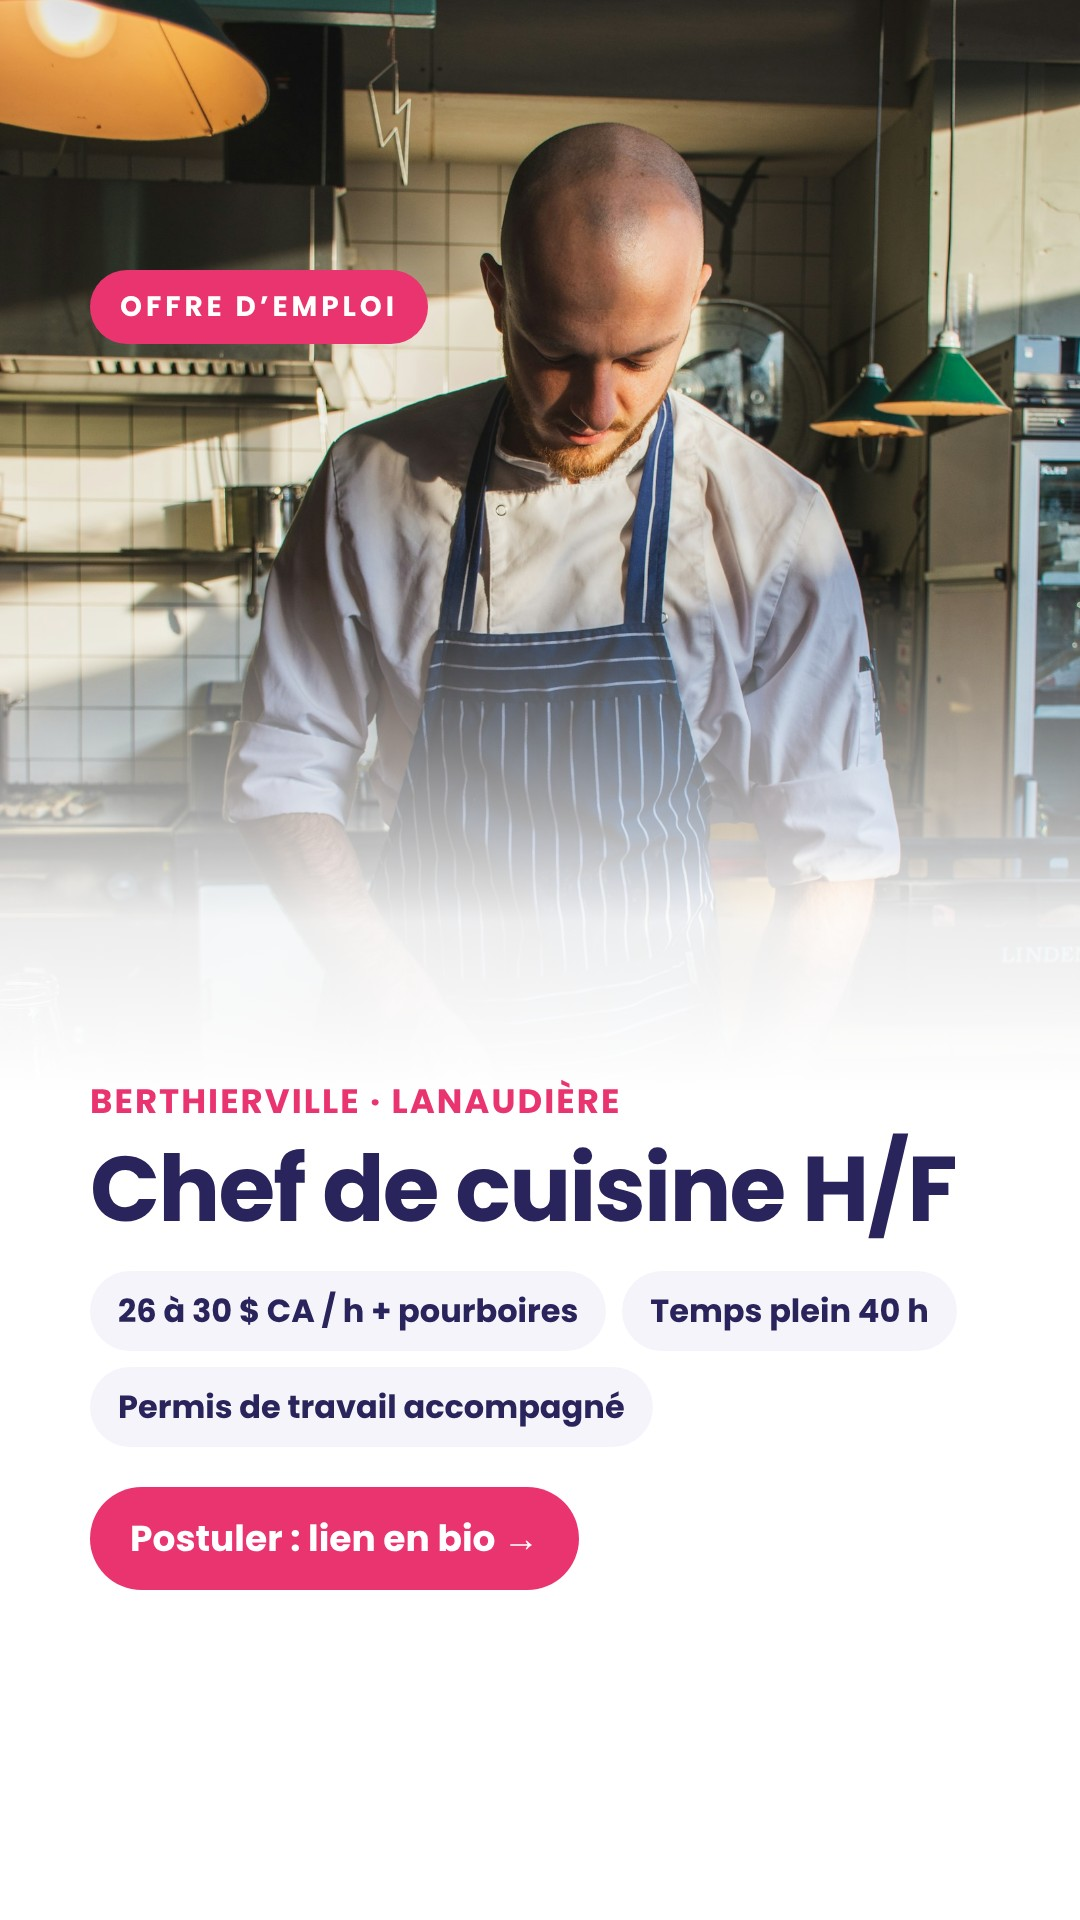
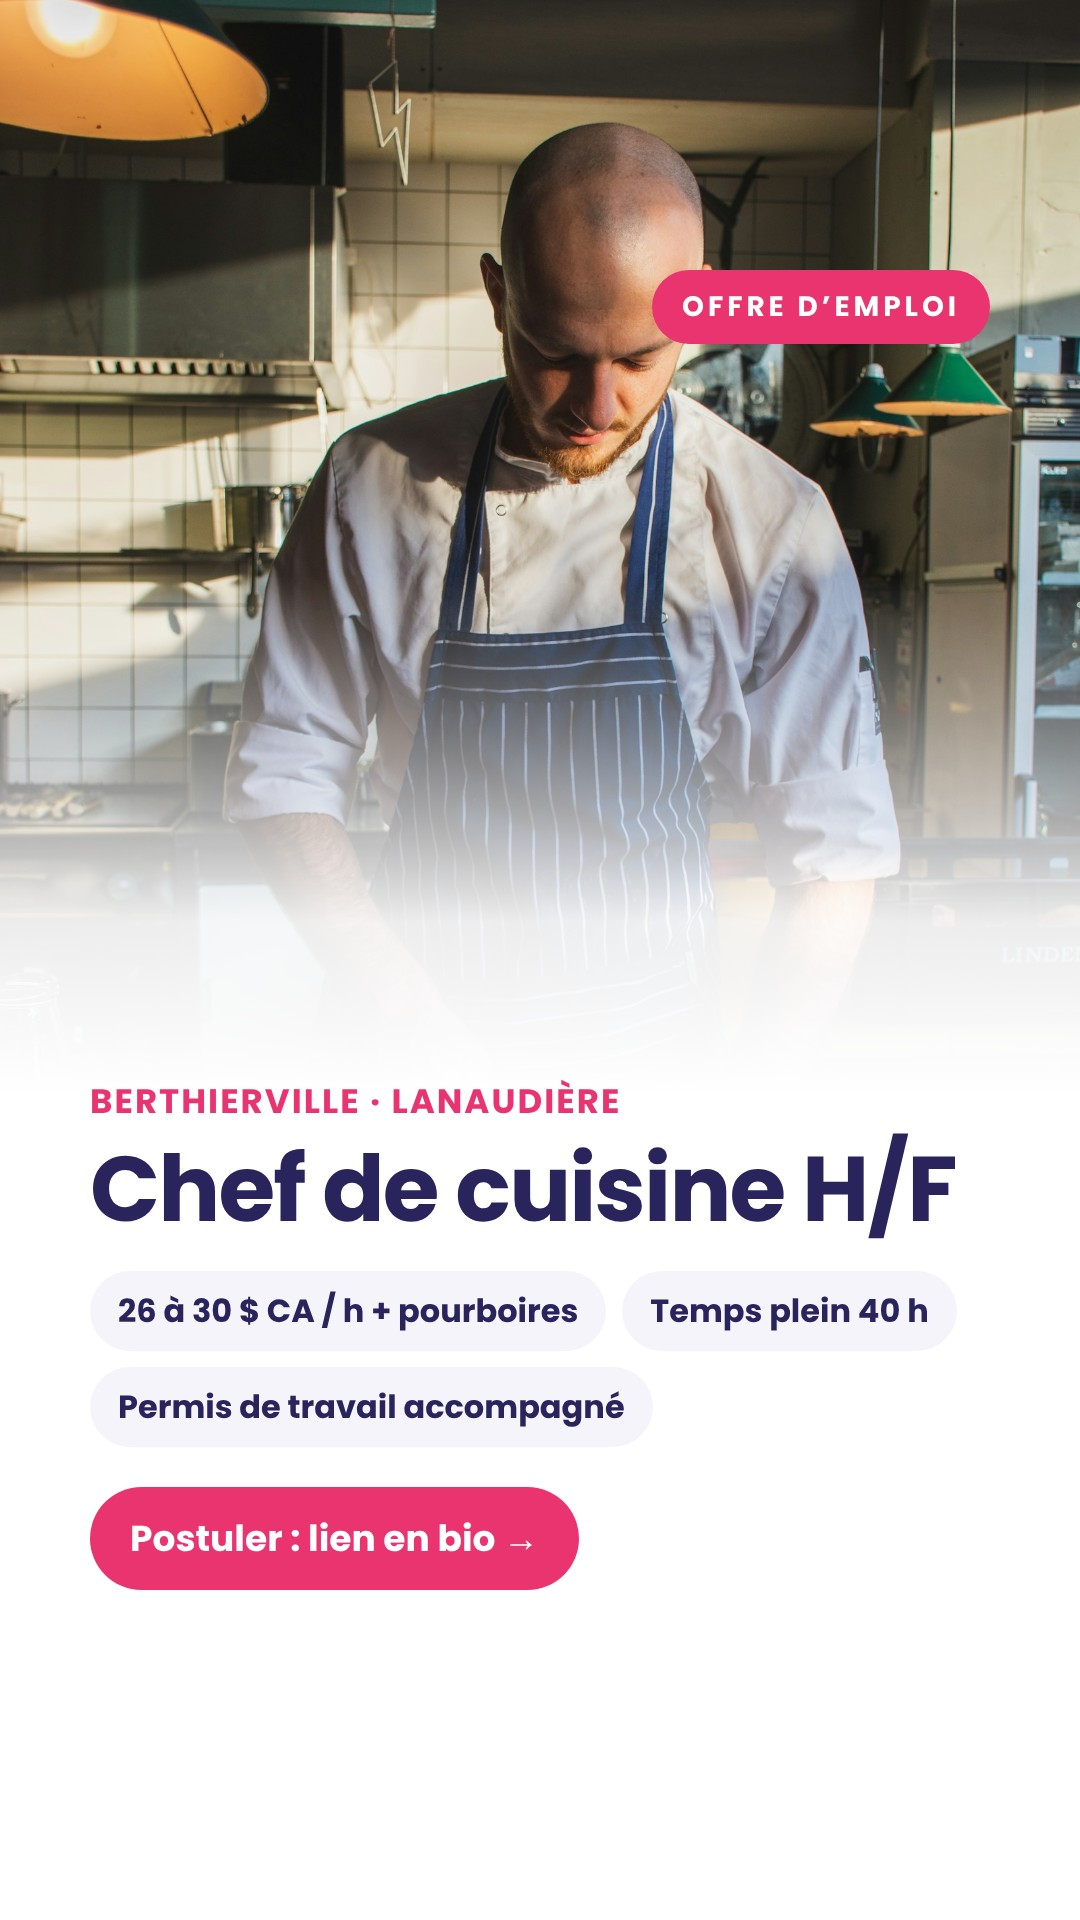
Stories offres : pastille en haut à droite
Claude-Session: https://claude.ai/code/session_01NBGakcBRwoq7RKRswmKrSM

Changed region(s): [[0.0611, 0.125, 0.3972, 0.1875], [0.6111, 0.125, 0.9167, 0.1875]]

diff --git a/tools/visuels/stories/offre-2.html b/tools/visuels/stories/offre-2.html
@@ -3,4 +3,4 @@
 .loc{color:#ea346f;font-weight:700;font-size:34px;letter-spacing:.06em;text-transform:uppercase}
 .s h1{font-size:92px;margin-top:14px}
 .ctab{display:inline-block;margin-top:40px;align-self:flex-start;background:#ea346f;color:#fff;font-weight:700;font-size:36px;padding:24px 40px;border-radius:999px}
-</style></head><body><div class="s" style="background:#fff"><img class="photo" src="j-aide-soignante.jpg" style="object-position:30% 20%;height:62%"><div class="grad" style="background:linear-gradient(180deg,rgba(255,255,255,0) 30%,rgba(255,255,255,.92) 48%,#fff 57%)"></div><div class="safe"><span class="tag">Offre d’emploi</span><div style="margin-top:auto"><div class="loc">Wakefield · Outaouais</div><h1>Préposé(e) aux bénéficiaires</h1><div class="chips"><span class="chip">Aide-soignant(e)</span><span class="chip">Résidence pour aînés</span><span class="chip">Permis de travail accompagné</span></div><span class="ctab">Postuler : lien en bio →</span></div></div></div></body></html>
+</style><style>.safe .tag{align-self:flex-end}</style></head><body><div class="s" style="background:#fff"><img class="photo" src="j-aide-soignante.jpg" style="object-position:30% 20%;height:62%"><div class="grad" style="background:linear-gradient(180deg,rgba(255,255,255,0) 30%,rgba(255,255,255,.92) 48%,#fff 57%)"></div><div class="safe"><span class="tag">Offre d’emploi</span><div style="margin-top:auto"><div class="loc">Wakefield · Outaouais</div><h1>Préposé(e) aux bénéficiaires</h1><div class="chips"><span class="chip">Aide-soignant(e)</span><span class="chip">Résidence pour aînés</span><span class="chip">Permis de travail accompagné</span></div><span class="ctab">Postuler : lien en bio →</span></div></div></div></body></html>

diff --git a/tools/visuels/stories/offre-4.html b/tools/visuels/stories/offre-4.html
@@ -3,4 +3,4 @@
 .loc{color:#ea346f;font-weight:700;font-size:34px;letter-spacing:.06em;text-transform:uppercase}
 .s h1{font-size:92px;margin-top:14px}
 .ctab{display:inline-block;margin-top:40px;align-self:flex-start;background:#ea346f;color:#fff;font-weight:700;font-size:36px;padding:24px 40px;border-radius:999px}
-</style></head><body><div class="s" style="background:#fff"><img class="photo" src="j-vendeur.jpg" style="object-position:60% 30%;height:62%"><div class="grad" style="background:linear-gradient(180deg,rgba(255,255,255,0) 30%,rgba(255,255,255,.92) 48%,#fff 57%)"></div><div class="safe"><span class="tag">Offre d’emploi</span><div style="margin-top:auto"><div class="loc">Saguenay et autres villes</div><h1>Conseiller à la vente H/F</h1><div class="chips"><span class="chip">Meubles et électroménager</span><span class="chip">Équipe de 4 à 7</span><span class="chip">Permis de travail accompagné</span></div><span class="ctab">Postuler : lien en bio →</span></div></div></div></body></html>
+</style><style>.safe .tag{align-self:flex-end}</style></head><body><div class="s" style="background:#fff"><img class="photo" src="j-vendeur.jpg" style="object-position:60% 30%;height:62%"><div class="grad" style="background:linear-gradient(180deg,rgba(255,255,255,0) 30%,rgba(255,255,255,.92) 48%,#fff 57%)"></div><div class="safe"><span class="tag">Offre d’emploi</span><div style="margin-top:auto"><div class="loc">Saguenay et autres villes</div><h1>Conseiller à la vente H/F</h1><div class="chips"><span class="chip">Meubles et électroménager</span><span class="chip">Équipe de 4 à 7</span><span class="chip">Permis de travail accompagné</span></div><span class="ctab">Postuler : lien en bio →</span></div></div></div></body></html>

diff --git a/tools/visuels/stories/offre-1.html b/tools/visuels/stories/offre-1.html
@@ -3,4 +3,4 @@
 .loc{color:#ea346f;font-weight:700;font-size:34px;letter-spacing:.06em;text-transform:uppercase}
 .s h1{font-size:92px;margin-top:14px}
 .ctab{display:inline-block;margin-top:40px;align-self:flex-start;background:#ea346f;color:#fff;font-weight:700;font-size:36px;padding:24px 40px;border-radius:999px}
-</style></head><body><div class="s" style="background:#fff"><img class="photo" src="j-chef.jpg" style="object-position:50% 25%;height:62%"><div class="grad" style="background:linear-gradient(180deg,rgba(255,255,255,0) 30%,rgba(255,255,255,.92) 48%,#fff 57%)"></div><div class="safe"><span class="tag">Offre d’emploi</span><div style="margin-top:auto"><div class="loc">Berthierville · Lanaudière</div><h1>Chef de cuisine H/F</h1><div class="chips"><span class="chip">26 à 30 $ CA / h + pourboires</span><span class="chip">Temps plein 40 h</span><span class="chip">Permis de travail accompagné</span></div><span class="ctab">Postuler : lien en bio →</span></div></div></div></body></html>
+</style><style>.safe .tag{align-self:flex-end}</style></head><body><div class="s" style="background:#fff"><img class="photo" src="j-chef.jpg" style="object-position:50% 25%;height:62%"><div class="grad" style="background:linear-gradient(180deg,rgba(255,255,255,0) 30%,rgba(255,255,255,.92) 48%,#fff 57%)"></div><div class="safe"><span class="tag">Offre d’emploi</span><div style="margin-top:auto"><div class="loc">Berthierville · Lanaudière</div><h1>Chef de cuisine H/F</h1><div class="chips"><span class="chip">26 à 30 $ CA / h + pourboires</span><span class="chip">Temps plein 40 h</span><span class="chip">Permis de travail accompagné</span></div><span class="ctab">Postuler : lien en bio →</span></div></div></div></body></html>

diff --git a/tools/visuels/stories/offre-3.html b/tools/visuels/stories/offre-3.html
@@ -3,4 +3,4 @@
 .loc{color:#ea346f;font-weight:700;font-size:34px;letter-spacing:.06em;text-transform:uppercase}
 .s h1{font-size:92px;margin-top:14px}
 .ctab{display:inline-block;margin-top:40px;align-self:flex-start;background:#ea346f;color:#fff;font-weight:700;font-size:36px;padding:24px 40px;border-radius:999px}
-</style></head><body><div class="s" style="background:#fff"><img class="photo" src="j-mecanicien.jpg" style="object-position:50% 30%;height:62%"><div class="grad" style="background:linear-gradient(180deg,rgba(255,255,255,0) 30%,rgba(255,255,255,.92) 48%,#fff 57%)"></div><div class="safe"><span class="tag">Offre d’emploi</span><div style="margin-top:auto"><div class="loc">Région de Québec</div><h1>Mécanicien poids lourds H/F</h1><div class="chips"><span class="chip">Temps plein 40 h</span><span class="chip">Formation fournie</span><span class="chip">Permis de travail accompagné</span></div><span class="ctab">Postuler : lien en bio →</span></div></div></div></body></html>
+</style><style>.safe .tag{align-self:flex-end}</style></head><body><div class="s" style="background:#fff"><img class="photo" src="j-mecanicien.jpg" style="object-position:50% 30%;height:62%"><div class="grad" style="background:linear-gradient(180deg,rgba(255,255,255,0) 30%,rgba(255,255,255,.92) 48%,#fff 57%)"></div><div class="safe"><span class="tag">Offre d’emploi</span><div style="margin-top:auto"><div class="loc">Région de Québec</div><h1>Mécanicien poids lourds H/F</h1><div class="chips"><span class="chip">Temps plein 40 h</span><span class="chip">Formation fournie</span><span class="chip">Permis de travail accompagné</span></div><span class="ctab">Postuler : lien en bio →</span></div></div></div></body></html>

diff --git a/tools/visuels/stories/offre-0.html b/tools/visuels/stories/offre-0.html
@@ -1,1 +1,1 @@
-<html><head><meta charset=utf-8><link rel=stylesheet href=base.css><link rel=stylesheet href=st.css></head><body><div class="s navy"><div class="safe" style="align-items:flex-start"><span class="tag">Offres d’emploi</span><div style="margin:auto 0"><img src="w-le-poste-6-1.webp" style="width:300px;margin-left:-20px"><h1 style="color:#fff;margin-top:30px">Nos offres du moment au Québec</h1><p class="lead" style="color:#cfcbef">Contrat signé avant le départ, permis de travail accompagné, aucun frais de recrutement pour vous.</p></div><div class="cta" style="margin-top:0">Toutes les offres : lien en bio</div></div></div></body></html>
+<html><head><meta charset=utf-8><link rel=stylesheet href=base.css><link rel=stylesheet href=st.css><style>.safe .tag{align-self:flex-end}</style></head><body><div class="s navy"><div class="safe" style="align-items:flex-start"><span class="tag">Offres d’emploi</span><div style="margin:auto 0"><img src="w-le-poste-6-1.webp" style="width:300px;margin-left:-20px"><h1 style="color:#fff;margin-top:30px">Nos offres du moment au Québec</h1><p class="lead" style="color:#cfcbef">Contrat signé avant le départ, permis de travail accompagné, aucun frais de recrutement pour vous.</p></div><div class="cta" style="margin-top:0">Toutes les offres : lien en bio</div></div></div></body></html>
